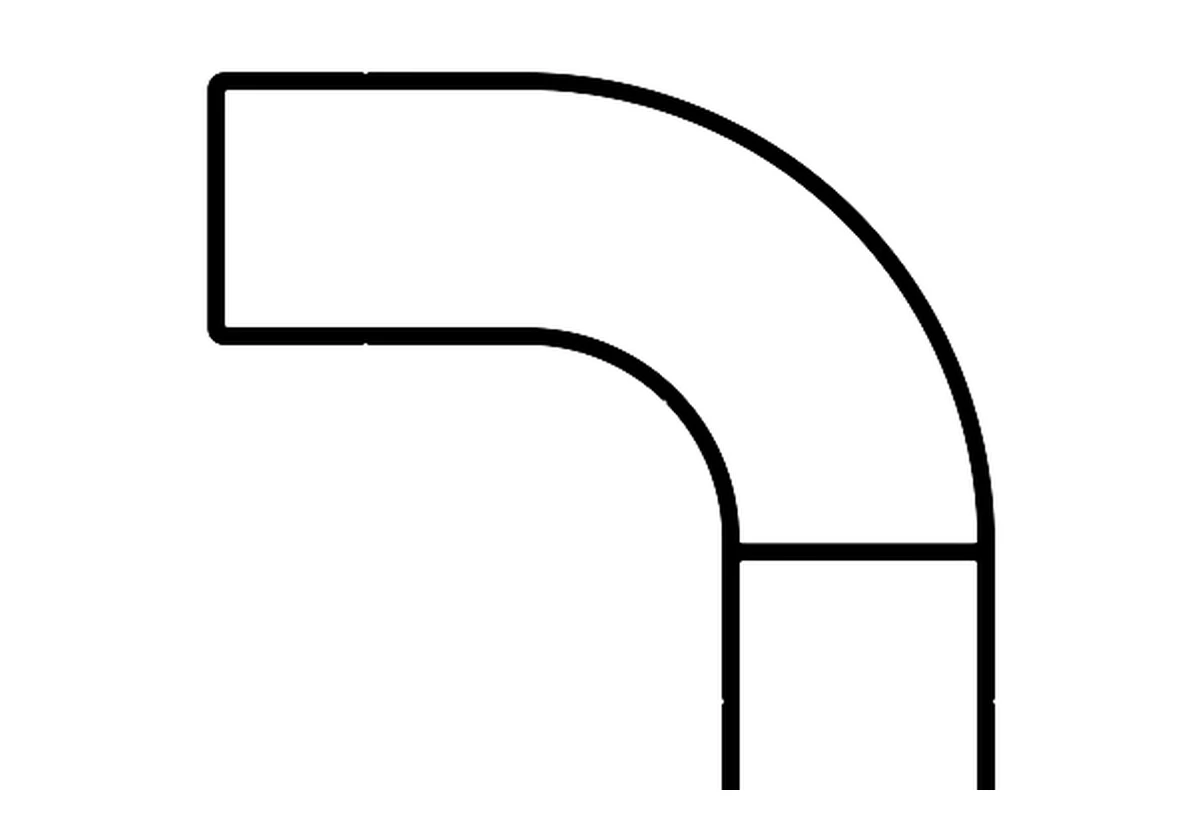
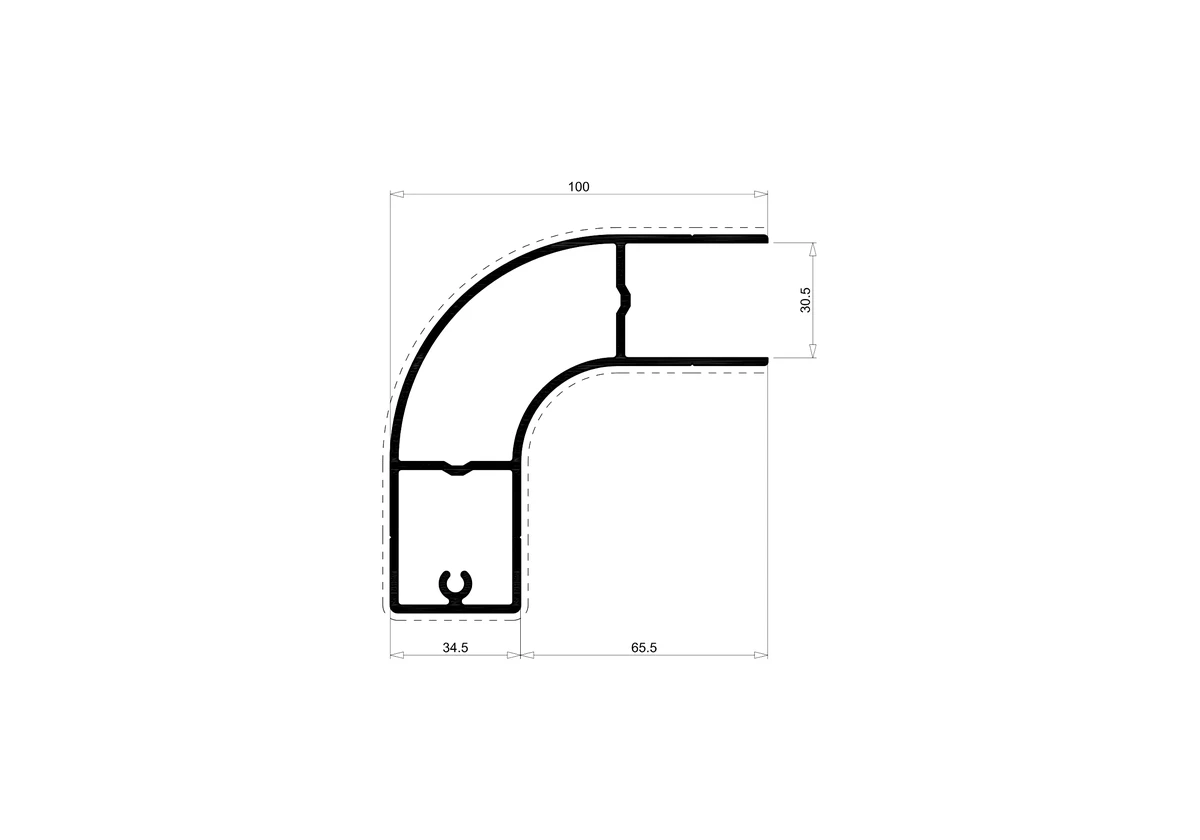
205535 íves aláfutásgátló végzáró: Metra R 7297 rajza és adatai (100 × 100 mm, 30,5 mm-es szelvény, 2,190 kg/fm)
Claude-Session: https://claude.ai/code/session_01GqcGcrqDWYvNfyrVUkczEM

diff --git a/scripts/termekadatok/metra.py b/scripts/termekadatok/metra.py
@@ -34,13 +34,23 @@ ITEMS = {
     "R1304": ("R 1304", 29, (28, 58, 152, 246), {"Tömeg": "0,700 kg/fm", "Méret": "25 × 50 mm", "Látható felület": "150 mm",
                                                  "Kerület": "150 mm", "Kivitel": "zártszelvény (ponyvatartó)"}),
 }
+# más beszállítónál nyilvántartott, de a Quadris kérésére a Metra katalógusból vett termékek:
+# slug -> (Metra jelölés, oldal, kivágás [pt], műszaki adatok, kifehérítendő téglalapok [pt])
+EXTRA = {
+    "205535-ives-alafutasgatlo-vegzaro-elox-profil": ("R 7297", 31, (40, 90, 382, 460),
+        {"Tömeg": "2,190 kg/fm", "Szélesség": "100 mm", "Magasság": "100 mm", "Szelvény": "30,5 mm",
+         "Látható felület": "248 mm", "Kerület": "317 mm", "Kivitel": "íves aláfutásgátló végprofil (paraciclisti)"},
+        [(190, 308, 316, 346)]),  # a „Tappo di chiusura / Art. AA518592” felirat
+}
 COMMON = {"Ötvözet": "EN AW-6060 / EN AW-6005A", "Állapot": "T5 – T6"}
 
 
-def render(page, box):
+def render(page, box, blanks=()):
     zoom = 240 / 72
     pix = page.get_pixmap(matrix=pymupdf.Matrix(zoom, zoom), clip=pymupdf.Rect(*box), alpha=False)
     img = Image.frombytes("RGB", (pix.width, pix.height), pix.samples)
+    for bx0, by0, bx1, by1 in blanks:
+        img.paste("white", tuple(int((v - o) * zoom) for v, o in zip((bx0, by0, bx1, by1), (box[0], box[1], box[0], box[1]))))
     g = np.asarray(img.convert("L")) < 225
     ys, xs = np.where(g)
     img = img.crop((max(xs.min() - 6, 0), max(ys.min() - 6, 0), min(xs.max() + 6, img.width), min(ys.max() + 6, img.height)))
@@ -61,6 +71,15 @@ def main():
         elox = "elox" in p["name"].lower()
         enrichment[p["slug"]] = {"source": SUPPLIER, "sourceUrl": "https://www.metraluminium.it", "sourceTitle": f"Metra {sigla}",
                                  "matchedCode": sigla, "specs": {**specs, **COMMON, "Felület": "eloxált" if elox else "natúr"},
+                                 "images": [img]}
+    for p in load_products():
+        if p["slug"] not in EXTRA:
+            continue
+        sigla, pno, box, specs, blanks = EXTRA[p["slug"]]
+        clear_images(p["slug"])
+        img = save_image(render(doc[pno - 1], box, blanks), p["slug"], 1)
+        enrichment[p["slug"]] = {"source": SUPPLIER, "sourceUrl": "https://www.metraluminium.it", "sourceTitle": f"Metra {sigla}",
+                                 "matchedCode": sigla, "specs": {**specs, **COMMON, "Felület": "eloxált" if "elox" in p["name"].lower() else "natúr"},
                                  "images": [img]}
     update_enrichment(enrichment, SUPPLIER)
     print(f"{SUPPLIER}: {len(enrichment)} termék")

diff --git a/scripts/termekadatok/alvaz_rajzok.py b/scripts/termekadatok/alvaz_rajzok.py
@@ -54,7 +54,7 @@ PROFILES = {
     "206941-cd-100x30-mm-alafutasgatlo-elox-profil": ("alafutasgatlo-profilok", 100),
     "207833-100x30-mm-alafutasgatlo-elox-profil": ("alafutasgatlo-profilok", 100),
     "208477-cd2-100x30-mm-alafutasgatlo-elox-profil": ("alafutasgatlo-profilok", 100),
-    "205535-ives-alafutasgatlo-vegzaro-elox-profil": ("egyedi", None),  # ívelt végzáró, nem keresztmetszet
+    "205535-ives-alafutasgatlo-vegzaro-elox-profil": ("alafutasgatlo-profilok", 100),  # Metra R 7297
     "201094-targonca-utkozo-profil": ("targonca-utkozo", 37.5),
 }
 # szkennelt rajzok megszakított falvonalai: (x0, y0, x1, y1, vastagság) a forráskép képpontjaiban

diff --git a/scripts/termekadatok/esal.py b/scripts/termekadatok/esal.py
@@ -33,7 +33,7 @@ HIRES_DPI = 400  # a végső rajz-kivágás renderelése (a lapok vektorosak, í
 # Quadris slug -> (katalóguskód, szálhossz a Quadris-kódból [m] vagy None)
 MAP = {
     "203183-250-25-mm-alafutasgatlo-elox-profil": ("13183", "7,5"),
-    "205535-ives-alafutasgatlo-vegzaro-elox-profil": ("50535", None),
+    # 205535: a Quadris kérésére a Metra R 7297 a forrás (metra.py)
     "227075-200-mm-mono-profil-teli-szakalas-elox": ("8770", "7,5"),
     "222020-h-szego-kiugros-25-mm-elox": ("50020", "6"),
     "245085-bill-u-szego-30-mm-40-60-elox": ("50085", "6"),
